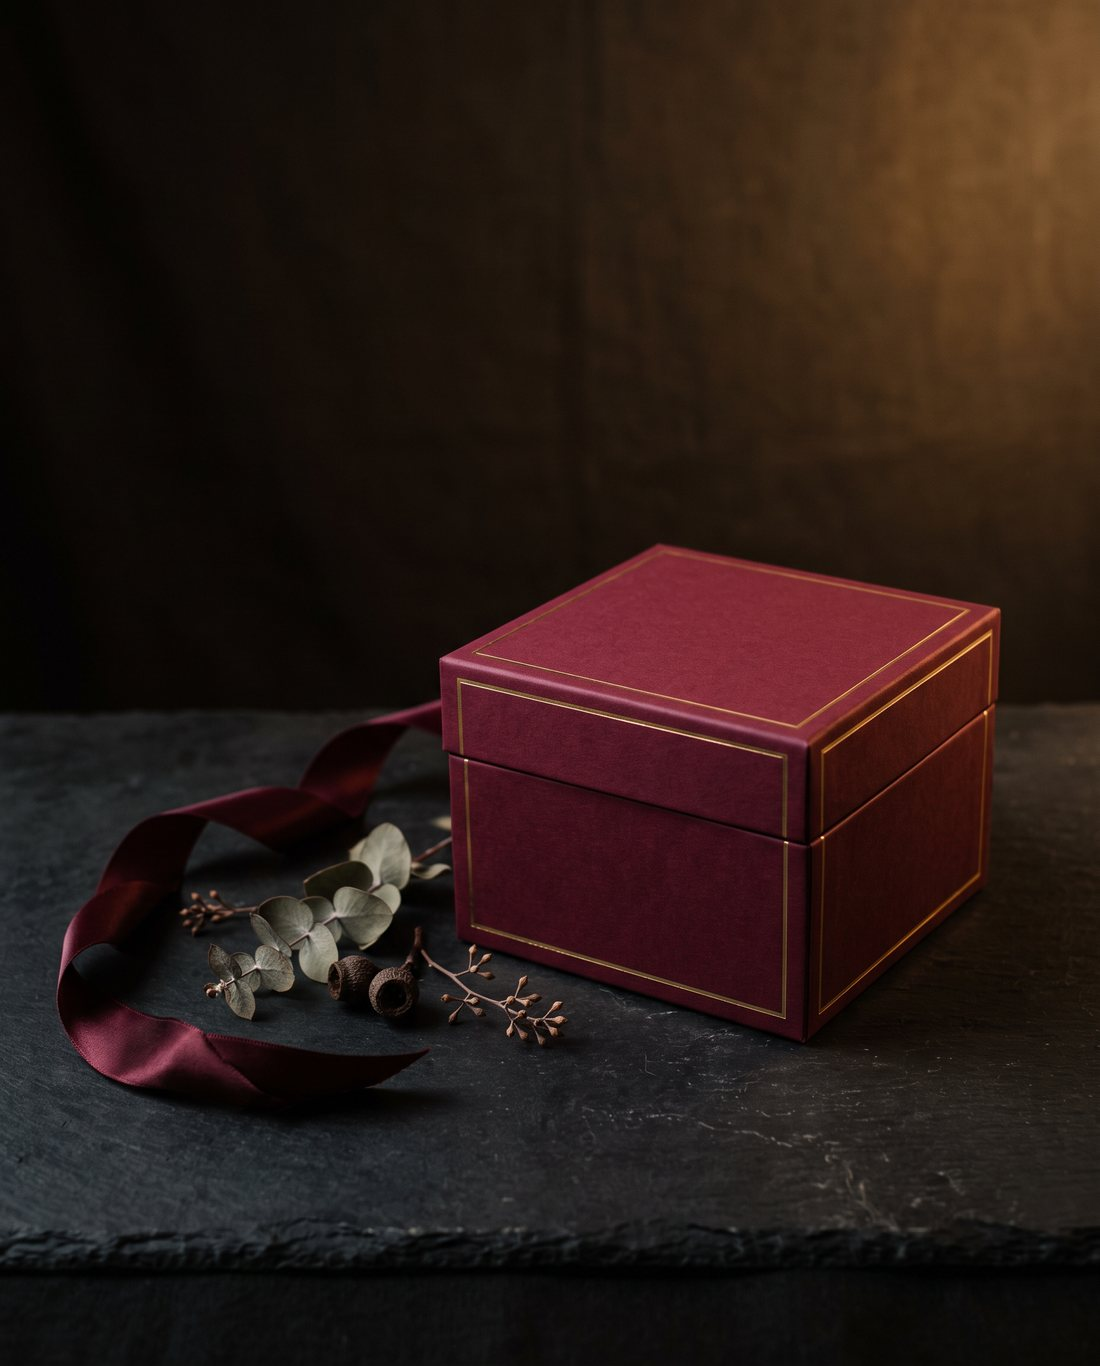
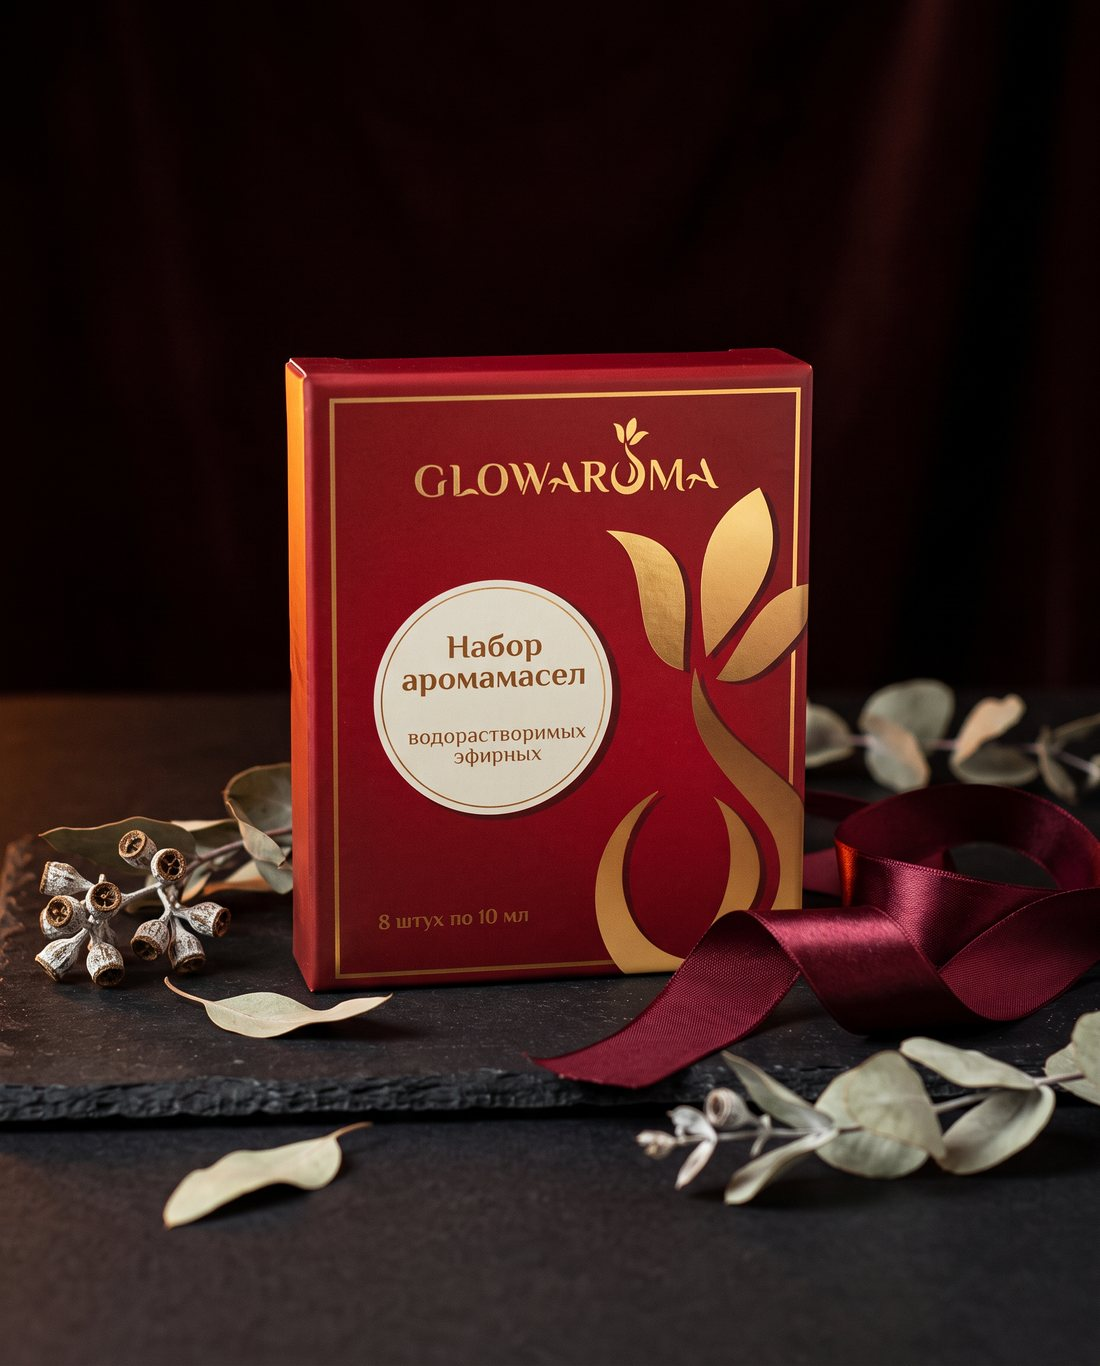
Regenerate scenes with the real humidifier and real gift box
v1 invented a generic round diffuser and a fake red box. v2 feeds the
actual product photos as image_input, so every scene shows the real
GlowAroma device and packaging (48 credits).

diff --git a/kie_upload.py b/kie_upload.py
@@ -1,0 +1,38 @@
+"""Upload a local image to KIE file storage and print its public URL."""
+import base64
+import json
+import mimetypes
+import subprocess
+import sys
+from pathlib import Path
+
+ROOT = Path(__file__).parent
+KEY = next(
+    line.split("=", 1)[1].strip()
+    for line in (ROOT / ".env").read_text(encoding="utf-8").splitlines()
+    if line.startswith("KIE_API_KEY=")
+)
+
+src = Path(sys.argv[1])
+mime = mimetypes.guess_type(src.name)[0] or "image/jpeg"
+payload = {
+    "base64Data": f"data:{mime};base64,{base64.b64encode(src.read_bytes()).decode()}",
+    "uploadPath": "images/glowaroma",
+    "fileName": src.name,
+}
+body = ROOT / "kie_inputs" / f"_upload_{src.stem}.json"
+body.write_text(json.dumps(payload), encoding="utf-8")
+
+out = subprocess.run(
+    ["curl", "-s", "-X", "POST", "https://kieai.redpandaai.co/api/file-base64-upload",
+     "-H", f"Authorization: Bearer {KEY}", "-H", "Content-Type: application/json",
+     "--data-binary", f"@{body}"],
+    capture_output=True, text=True,
+).stdout
+body.unlink(missing_ok=True)
+
+data = json.loads(out)
+if not data.get("success", True) and "data" not in data:
+    print("ERROR:", out[:400])
+    sys.exit(1)
+print(data["data"]["downloadUrl"])

diff --git a/design-notes.md b/design-notes.md
@@ -1,0 +1,64 @@
+# GlowAroma — журнал проекта
+
+## Статус
+
+Брендбук готов. Черновик сайта собран в Claude Design (проект `GlowAroma Catalog Mockups`,
+файл `GlowAroma Сайт.dc.html`) — структура и тексты годные, визуал дорабатывается здесь.
+Репозиторий: https://github.com/JIupaza/glowaroma (публичный, под GitHub Pages).
+
+## Палитра — решение принято
+
+Логотип реальный (тёплый оранжево-красный, росток вместо «O») **побеждает** фиолетовую палитру
+брендбука. Сайт ведём в тёплой гамме, брендбук в этой части считаем устаревшим.
+
+| Роль | Цвет |
+|---|---|
+| Фон основной | `#180F0D` |
+| Фон секции / карточки | `#150C0B` / `#231613` |
+| Акцент огонь | `#FF4D26` → `#FF9838` (градиент) |
+| Глубокий красный | `#C6262C` |
+| Текст | `#F7F0EC` · вторичный `#B3A39C` · приглушённый `#8C7A72` |
+
+Шрифты: Manrope (заголовки, 700/800) + Inter (текст). Файлы в `fonts/`.
+
+## Ассеты
+
+**Реальные фото** (`assets/img/`) — из студийной съёмки `ИНФОГРАФИКА_\Масло 8шт кр_фото`,
+автообрезка по содержимому через `prep_photos.py`:
+`set8-box-front`, `set8-open`, `set8-open-angle`, `set8-alt-a/b` — набор 8×10 (арт. 189430894).
+`humidifier`, `filters` — вырезаны из чистых участков `Диффузор инф-ка\Frame 41.png`.
+
+**AI-сцены** (`assets/gen/`) — KIE.ai, `nano-banana-2`:
+- `hero-atmosphere` — абстрактный фон героя, лучи справа, пустота слева под заголовок.
+- `scene-kitchen` / `scene-evening` / `scene-guests` / `scene-gift` — четыре сценария дома.
+  v1 забракована: нейросеть рисовала выдуманный круглый диффузор и несуществующую подарочную
+  коробку. v2 генерится через `image_input` с реальным прибором и реальной коробкой.
+
+Генерация: `bash kie_run.sh nano-banana-2 kie_inputs/<name>.json assets/gen/<out>.png`
+(раннер из skill site-zavod падал на поллинге — `fetch failed`, переписан на curl).
+Аплоад своего фото: `py kie_upload.py <path>` → выдаёт URL для `image_input`.
+Сжатие: `py compress_gen.py`.
+
+**Потрачено кредитов:** 60 (v1: hero + 4 сцены) + 48 (v2: 4 сцены) = 108 ≈ $1,8.
+
+## Чего не хватает
+
+Нет чистых товарных фото по 4 позициям: второй набор 8×10 (гардения-цитрус-сандал, арт. 255143956),
+парфюмированный 6×10 (861882240), цитрус-хлопок (866952851), банный 6×10 (189434539).
+Локально по ним только WB-инфографика с запрещёнными формулировками («100% ESSENTIAL OIL SET»)
+и водяным знаком китайского поставщика — использовать нельзя.
+Варианты: снять самим, скачать с карточек WB через `claude-in-chrome`, или чистить через image-edit.
+
+## Запреты в текстах (жёстко)
+
+Не писать: «100% эфирное масло», «100% органика», «лечит / снимает стресс / улучшает сон»,
+«ароматерапия» в медицинском смысле, «безопасно для детей», «от комаров», «лить на камни в бане»,
+«ХИТ», «ТОП-1», обещания стойкости в часах без указания дозировки.
+
+## TODO
+
+- [ ] Вживить v2-сцены и реальные фото в вёрстку
+- [ ] Собрать сайт локально: `index.html` + `assets/style.css` (чистый HTML/CSS, без фреймворков)
+- [ ] Проверить 2560 / 1440 / 768 / 375, отсутствие горизонтального скролла
+- [ ] Закрыть дыру с фото по 4 товарам
+- [ ] GitHub Pages + og-теги с абсолютными ссылками
